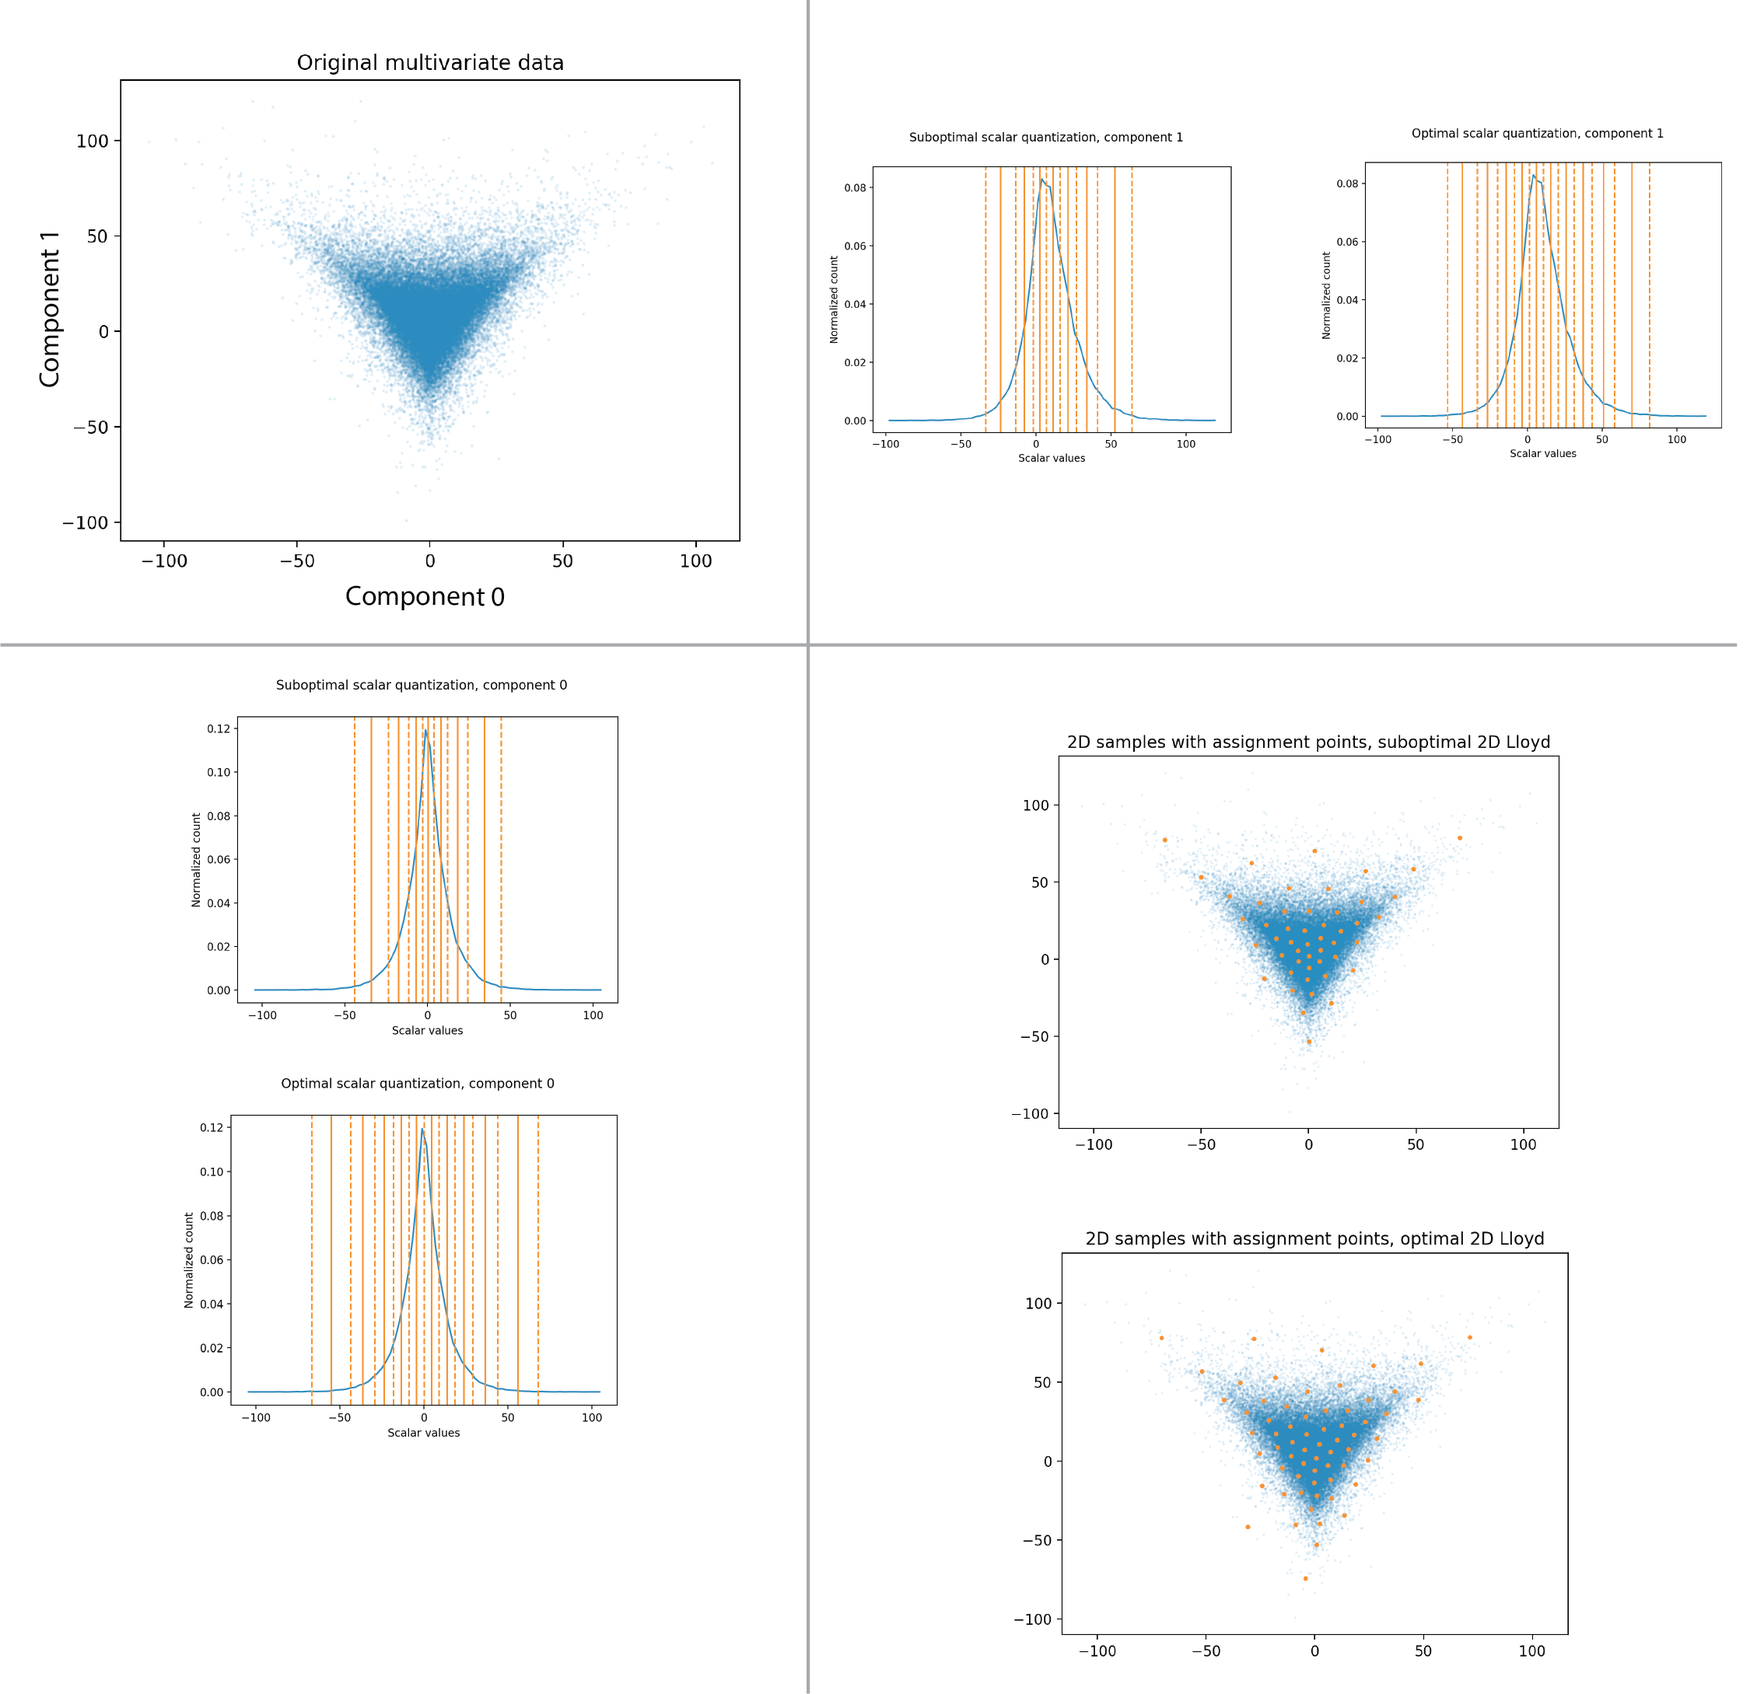
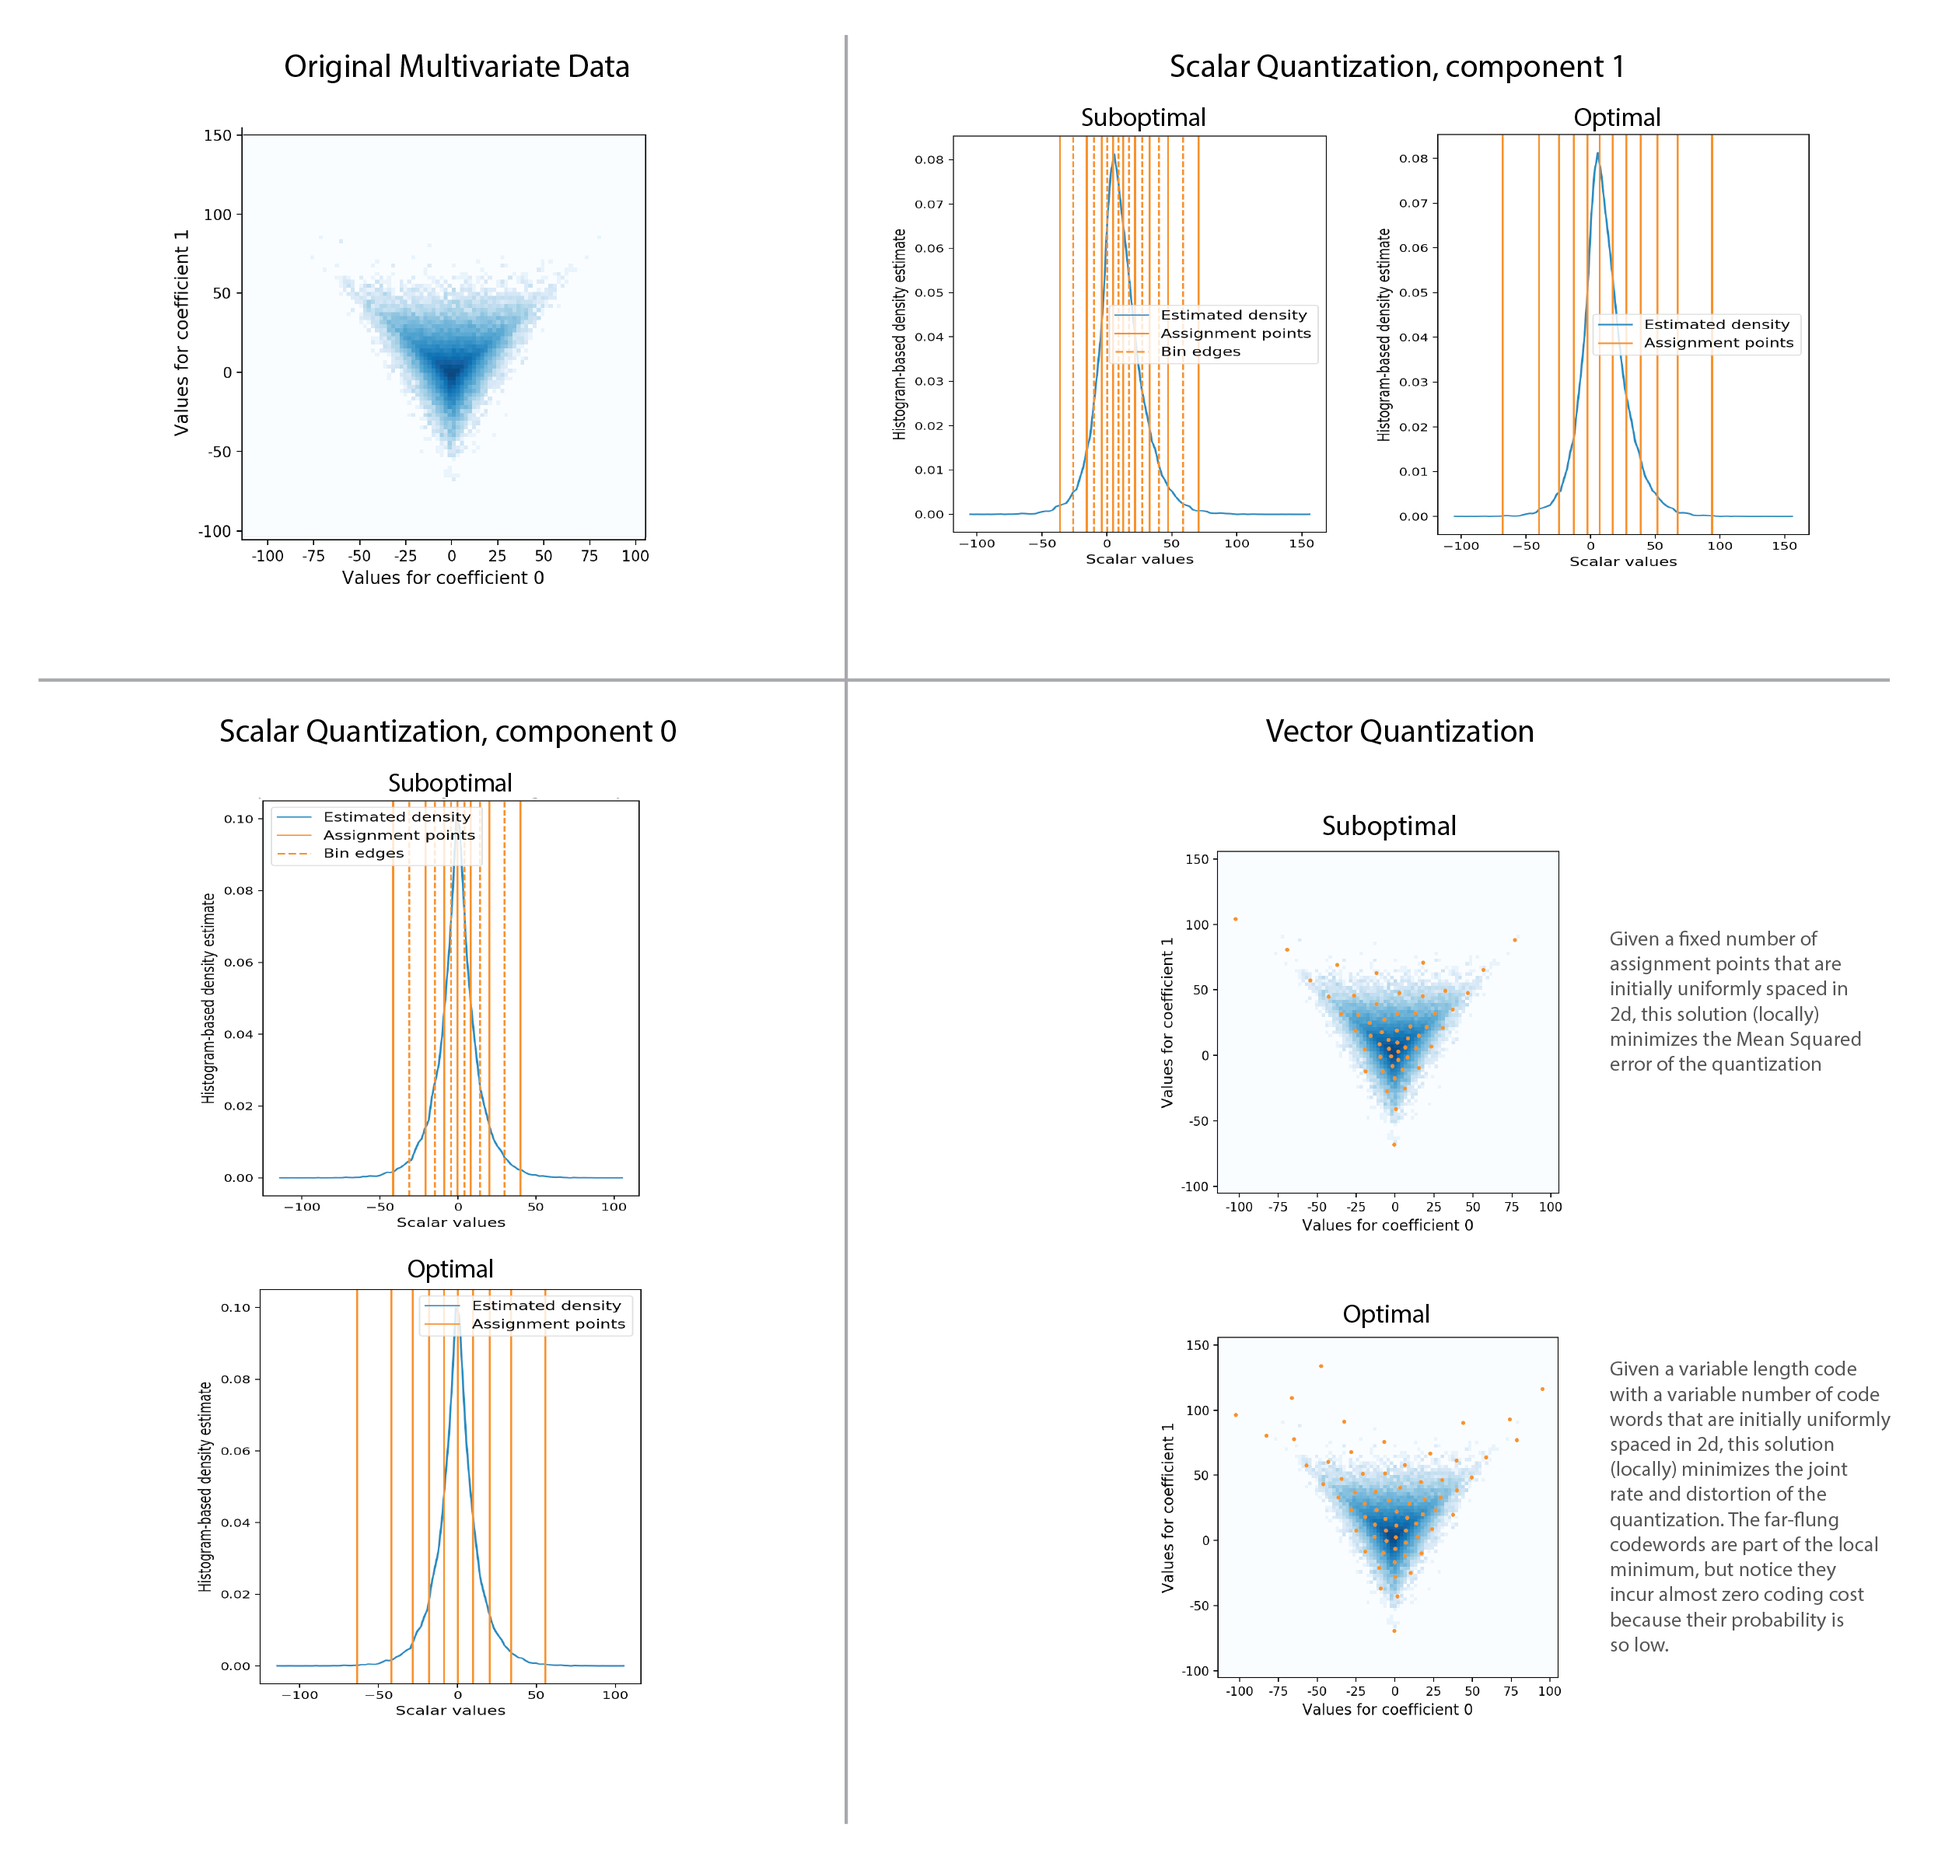
update readme with better plots and more discussion

diff --git a/README.md b/README.md
@@ -1,14 +1,33 @@
 generalized-lloyd-quantization
 ==============================
-This is a pure Python/NumPy/SciPy implementation of the Generalized Lloyd quantization scheme, 
-both in the most basic formulation<sup>[[1]](#ref1)</sup><sup>[[2]](#ref1)</sup> and also in 
+This is a pure Python/NumPy/SciPy implementation of the Generalized Lloyd quantization scheme,
+both in the most basic formulation<sup>[[1]](#ref1)</sup><sup>[[2]](#ref1)</sup> and also in
 a formulation which is optimal in terms of entropy rate<sup>[[3]](#ref1)</sup><sup>[[4]](#ref1)</sup>.
-The suboptimal version is often called the Linde Buzo Gray (LBG) algorithm and the optimal 
-version is often called Entropy-Constrained Vector Quantization.
+The suboptimal version is often called the Linde Buzo Gray (LBG) algorithm and the optimal
+version is often called Entropy-Constrained Vector Quantization (ECVQ).
+
+### Important considerations
+1. These algorithms attempt to minimize a cost function that captures either just the mean-squared error
+of the quantization or both the MSE and the entropy of the resulting code. Keep in mind that this problem
+is non-convex and these algorithms only find a **local minimum** of these cost functions. In fact,
+**the solution that is found may be heavily dependent on the initial locations of the assignment points**.
+
+2. The LBG variant is only sensible when one intends to send each codeword with an equal and fixed
+number of bits, a so-called 'Fixed Length Code'. If the codewords can have a variable number of bits,
+a so-called 'Variable Length Code', then a lossless source code (e.g. Huffman or Arithmetic) will have an
+expected code length arbitrarily close to the entropy of the quantized code. In this setting you want to
+use the ECVQ variant, which will account for this entropy when making the codeword assignments.
+
+3. In the high-fidelity regime, where there are many assignment points, the rate-distortion
+benefit of using these algorithms may be minimal compared to a much simpler quantization using
+uniformly-spaced assignment points. The low-fidelity regime, with very few (carefully placed) assignment points,
+is where you should expect to see some benefit in using this approach.
+
 
 At some point I may add an implementation in a GPU computing framework so that it can scale more
 easily for vector quantization in high dimensions, but for now this is an implementation that
 should still be usable for a reasonable number of dimensions.
+
 
 ## Dependencies
 * numpy
@@ -17,31 +36,36 @@ should still be usable for a reasonable number of dimensions.
 * [hdmedians](https://github.com/daleroberts/hdmedians)
 
 ## Example
-Usage can be inferred from the example found in the demo/ folder. In this particular case we 
+Usage can be inferred from the example found in the demo/ folder. In this particular case we
 generate samples of a 2D multivariate random variable. We can either quantize each coefficient
-separately or we can quantize the coefficients jointly. For this particular dataset it appears 
-that not only are significant gains achieved by using the entropy-rate-optimal version of the 
-algorithm, but that by quantizing the coefficients jointly, we also get a gain in coding 
+separately or we can quantize the coefficients jointly. For this particular dataset it appears
+that not only are significant gains achieved by using the entropy-rate-optimal version of the
+algorithm, but that by quantizing the coefficients jointly, we also get a gain in coding
 efficiency.
 
 ![alt text](generalized_lloyd_quantization/demo/plots/composite_demo_fig.png)
-![alt text](generalized_lloyd_quantization/demo/plots/rd_performance_example.png)
+#### Scalar Quantization alone
+![alt text](generalized_lloyd_quantization/demo/plots/rd_performance_example_scalar.png)
+#### Vector Quantization alone
+![alt text](generalized_lloyd_quantization/demo/plots/rd_performance_example_vector.png)
+#### All six variants superimposed
+![alt text](generalized_lloyd_quantization/demo/plots/rd_performance_example_all.png)
 
 ### Authors
 Spencer Kent
 
 ### References
-[<a name="ref1">1</a>]: Linde, Y., Buzo, A., & Gray, R. (1980). 
-An algorithm for vector quantizer design. 
+[<a name="ref1">1</a>]: Linde, Y., Buzo, A., & Gray, R. (1980).
+An algorithm for vector quantizer design.
 _IEEE transactions on information theory_, 28(1), 84-95.
 
 [<a name="ref2">2</a>]: Lloyd, S. (1982).  Least squares quantization in PCM.  
 _IEEE transactions on information theory_, 28(2), 129-137.
 
-[<a name="ref3">3</a>]: Berger, T. (1982). 
-Minimum entropy quantizers and permutation codes. 
+[<a name="ref3">3</a>]: Berger, T. (1982).
+Minimum entropy quantizers and permutation codes.
 _IEEE transactions on information theory_, 28(2), 149-157.
 
-[<a name="ref3">4</a>]: Chou, P. A., Lookabaugh, T., & Gray, R. M. (1989). 
-Entropy-constrained vector quantization. 
+[<a name="ref3">4</a>]: Chou, P. A., Lookabaugh, T., & Gray, R. M. (1989).
+Entropy-constrained vector quantization.
 _IEEE transactions on acoustics, speech, and signal processing_, 37(1), 31-42.
